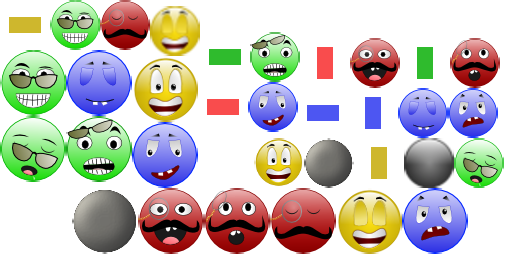
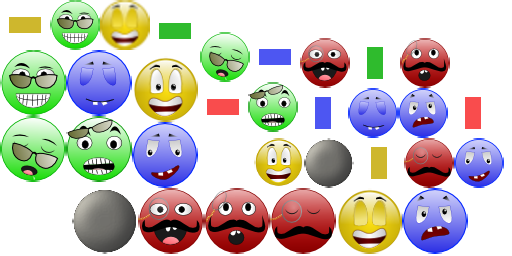
Un peu moins de nuisances à partir du lvl 5 (c'était violent quand même :D).

Changed region(s): [[0.1875, 0.0, 1.0, 0.75]]

diff --git a/puyopuyo-android/src/com/tacoid/puyopuyo/GameSoloScreen.java b/puyopuyo-android/src/com/tacoid/puyopuyo/GameSoloScreen.java
@@ -20,7 +20,7 @@ public class GameSoloScreen extends GameScreenPortrait {
 	public void render(float delta) {
 		super.render(delta);
 		if (!gameLogic.isPaused() && !gameEnded()) {
-			if (level >= 5 && timeGarbage > 10.0f / level) {
+			if (level >= 5 && timeGarbage > 25.0f / level) {
 				gameLogic.sendGarbage(1);
 				timeGarbage = 0;
 			} else {
